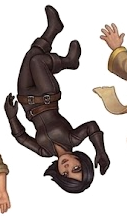
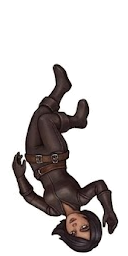
feat(tower): climb loop from the mirrored sprite + re-measured ladder anchors
- 2-frame climb: frame B is the sprite mirrored (scaleX(-1)) with a 1.5px
  weight shift, 700ms per cycle, staggered per seat; held for the eliminated
  climber and for the winner at the summit; respects prefers-reduced-motion
- climber sprites re-cut onto 128x256 bottom-centred canvases: neighbour-cell
  fragments dropped (largest connected blob), white keying fringe unblended so
  there is no halo against the stone wall
- LADDER_X re-measured from tower.jpg by detecting the 16 vertical rails
  (8 pairs); the old hand-measured values were up to 13px off on the last
  ladders, which put climbers beside the rails instead of on them
- /tower/preview: DB-free art harness used to check anchoring + the loop

diff --git a/components/Tower.tsx b/components/Tower.tsx
@@ -51,6 +51,9 @@ export default function Tower({ players }: { players: TowerStatePlayer[] }) {
         const bottomPct = CLIMB_BASE - climbed * (CLIMB_BASE - CLIMB_TOP);
         const sprite = CLIMBER_SPRITES[seat] ?? null;
         const color = SEAT_COLORS[seat];
+        // climb loop only while actually climbing: the eliminated pose is a
+        // fall frame and the winner holds still at the summit.
+        const climbing = !p.eliminated && p.rungs < SUMMIT_RUNGS;
 
         return (
           <div
@@ -77,8 +80,11 @@ export default function Tower({ players }: { players: TowerStatePlayer[] }) {
                 style={{
                   height: `${(12.5 * (sprite.scale ?? 1)).toFixed(2)}cqh`,
                   width: "auto",
+                  animationDelay: climbing ? `${(seat * 0.09).toFixed(2)}s` : undefined,
                 }}
-                className="drop-shadow-[0_2px_3px_rgba(0,0,0,.55)]"
+                className={`drop-shadow-[0_2px_3px_rgba(0,0,0,.55)]${
+                  climbing ? " climber-sprite" : " climber-sprite--held"
+                }`}
               />
             ) : (
               <div

diff --git a/app/tower/preview/page.tsx b/app/tower/preview/page.tsx
@@ -1,0 +1,40 @@
+// Dev-only art harness: renders the tower board with a fixed set of climbers so
+// the sprite anchoring and the climb loop can be eyeballed (and screenshotted)
+// without a database, a lobby or a live round. Not linked from the game.
+import Tower from "@/components/Tower";
+import type { TowerStatePlayer } from "@/lib/tower";
+
+const NAMES = [
+  "Cavalerul",
+  "Arcașul",
+  "Pitic",
+  "Magul",
+  "Băiatul",
+  "Ticălosul",
+  "Cărturarul",
+  "Mercenarul",
+];
+
+const RUNGS = [2, 6, 11, 16, 21, 26, 30, 36];
+
+const players: TowerStatePlayer[] = NAMES.map((name, seat) => ({
+  id: `seat-${seat}`,
+  name,
+  seat,
+  score: 40 + seat * 7,
+  rungs: RUNGS[seat],
+  eliminated: seat === 6,
+  isBot: seat % 2 === 1,
+  mine: seat === 3,
+}));
+
+export default function TowerPreview() {
+  return (
+    <div className="w-full max-w-5xl">
+      <h1 className="mb-2 font-cinzel text-sm tracking-widest text-[#9ec6c1]">
+        TURNUL · PREVIEW ARTĂ (fără DB)
+      </h1>
+      <Tower players={players} />
+    </div>
+  );
+}

diff --git a/app/globals.css b/app/globals.css
@@ -179,3 +179,34 @@ h1 {
     animation-duration: 0.01s;
   }
 }
+
+/* --- Turnul: climber climb loop -------------------------------------------
+   Two-frame climb: frame B is the horizontally mirrored sprite (limbs swap
+   sides, the painted ladder is symmetric so nothing drifts) plus a 1.5px
+   weight shift so it reads as "pull up a rung" instead of a sway. The engine
+   alternates frames every 350ms; seats get a staggered delay so the eight
+   ladders don't pulse in lockstep. */
+@keyframes climb-step {
+  0%,
+  49.99% {
+    transform: scaleX(1) translateY(0);
+  }
+  50%,
+  100% {
+    transform: scaleX(-1) translateY(-1.5px);
+  }
+}
+.climber-sprite {
+  animation: climb-step 700ms linear infinite;
+  transform-origin: 50% 100%;
+  will-change: transform;
+}
+/* held = standing still (summit, or the sprite froze for a non-climbing state) */
+.climber-sprite--held {
+  animation: none;
+}
+@media (prefers-reduced-motion: reduce) {
+  .climber-sprite {
+    animation: none;
+  }
+}

diff --git a/components/towerSprites.ts b/components/towerSprites.ts
@@ -27,8 +27,13 @@ export const CLIMBER_SPRITES: (ClimberSprite | null)[] = [
   { src: "/tower/players/c8.png", fall: "/tower/players/f8.png" }, // mercenary
 ];
 
-/** Fraction of the artwork width where each ladder sits (measured from the photo). */
-export const LADDER_X = [0.340, 0.388, 0.435, 0.480, 0.527, 0.574, 0.622, 0.670];
+/** Fraction of the artwork width where each ladder sits.
+ *  Measured off `tower.jpg` by detecting the two long vertical rails of every
+ *  ladder in the wall band (16 rails -> 8 pairs); each value is the midpoint
+ *  between the pair. Re-measure if the board artwork is ever replaced. */
+export const LADDER_X = [
+  0.3411, 0.3840, 0.4289, 0.4761, 0.5227, 0.5698, 0.6145, 0.6575,
+];
 
 /** Vertical band of the climb, as fractions of the artwork height. */
 export const CLIMB_TOP = 0.15;
